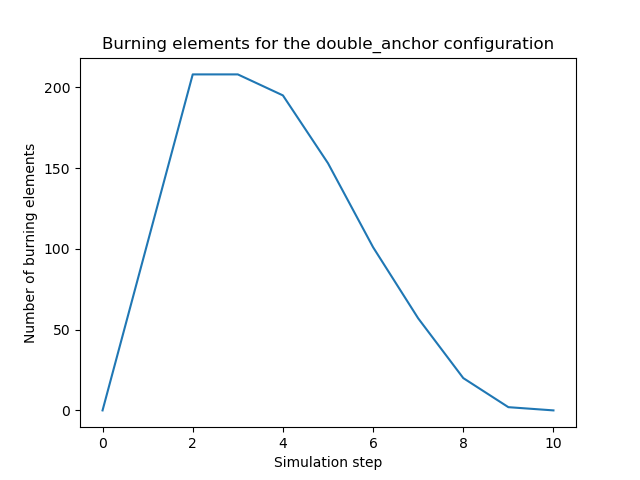
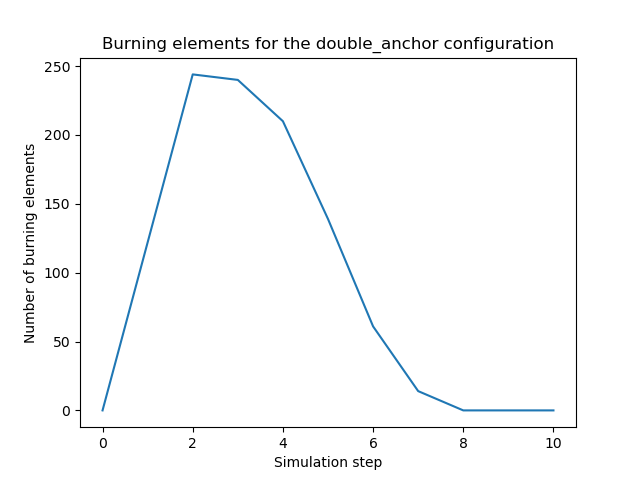
Plots

diff --git a/main.py b/main.py
@@ -34,7 +34,7 @@ def main():
 
     # Propellant initial grain configuration (star)
     print("Creating initial grain configuration")
-    grain_config = "double_anchor" #Choices are external_burning_rod, internal_tube_slots, internal_tube, rod_and_tube
+    grain_config = "rod_and_tube" #Choices are external_burning_rod, internal_tube_slots, internal_tube, rod_and_tube
     prop = create_grain_config(Nx, Ny, centerx, centery, prop_indices, non_prop_indices, x, y, max_combustion, grain_config)
 
     ## Plot initial condition

diff --git a/utils/grain_sim_functions.py b/utils/grain_sim_functions.py
@@ -57,7 +57,7 @@ def create_grain_config(Nx, Ny, centerx, centery, prop_indices, non_prop_indices
     elif grain_config == "double_anchor":
         anchor_inner_radius = 0.5
         anchor_outer_radius = 0.6
-        anchor_pieces_max_angle = math.pi / 4
+        anchor_pieces_max_angle = math.pi / 3
         create_grain_config_double_anchor(prop, centerx, centery, prop_indices, x, y, max_combustion, anchor_inner_radius, anchor_outer_radius, anchor_pieces_max_angle)
 
 
